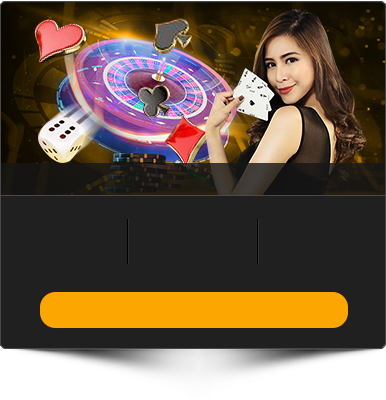
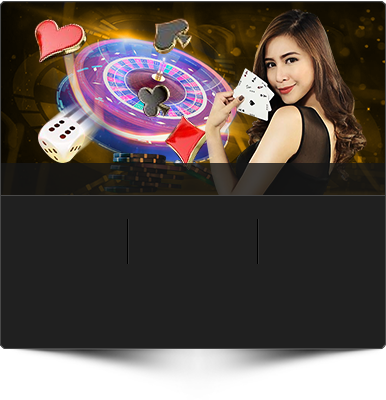
edited by remo

Changed region(s): [[0.0933, 0.72, 0.9016, 0.84]]

diff --git a/assets/css/main.css b/assets/css/main.css
@@ -2577,9 +2577,10 @@ select + i.fa {
 /**************/
 
 .live-game {
-    position: relative;
-max-width: 386px;
-margin: 0 auto;
+  position: relative;
+  max-width: 386px;
+  max-height: 400px;
+  margin: 0 auto;
 }
 
 .live-game-txt {
@@ -2701,11 +2702,13 @@ margin: 0 auto;
 
 .lg-playnow {
     display: block;
-    width: 100%;
-    position: absolute;
+    margin: 0px auto;
+    position: relative;
     text-align: center;
     color: rgba(84, 54, 1, 1) !important;
     font-weight: 700;
+    background: -webkit-gradient(linear, left top, left bottom, from(#fba601), to(#feaf10));
+    background: linear-gradient(#fba601, #feaf10);
 }
 
 .lg-playnow:active,
@@ -8493,7 +8496,6 @@ border-bottom: 1px solid #333333;
   padding-bottom: 20px
 }
 .lg-playnow.sp-btn-hidden{
-  background: none;
   -webkit-box-shadow: none;
           box-shadow: none;
 }
@@ -8559,6 +8561,9 @@ text-decoration: none;
           box-shadow: none;
   color: #111;
   text-decoration: none;
+}
+.live-game .lg-playnow:hover{
+  background: #ef9f01 !important
 }
 .cs-modal .chatserver-form button.select-country-code:hover{
   background-color: transparent;

diff --git a/assets/css/media.css b/assets/css/media.css
@@ -5109,7 +5109,7 @@ main .marquee {
     right: 25px;
 }
 .lg-playnow {
-    bottom: 9.2%;
+    bottom: 84px;
 }
 .lg-playnow {
     font-size: 18px;
@@ -5135,6 +5135,9 @@ main .marquee {
     width: 100%;
     padding: 6px 0;
     padding-right: 6%;
+  }
+  .lg-playnow.sp-btn-hidden2{
+    width: 80%;
   }
   .btn-hidden::after{
     width: 18px;
